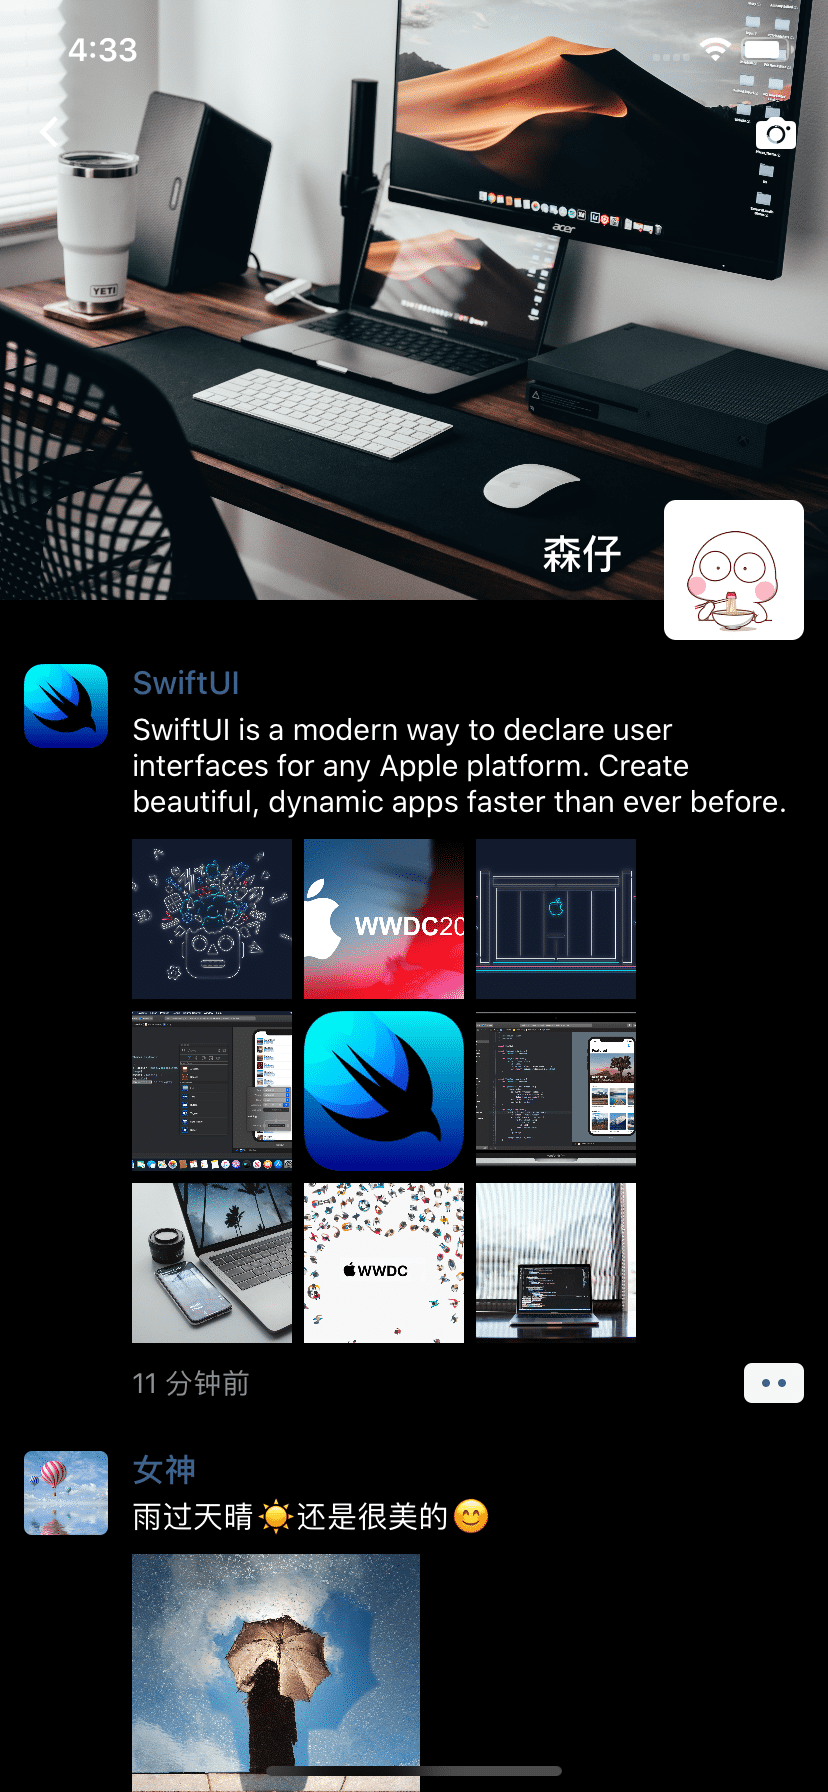
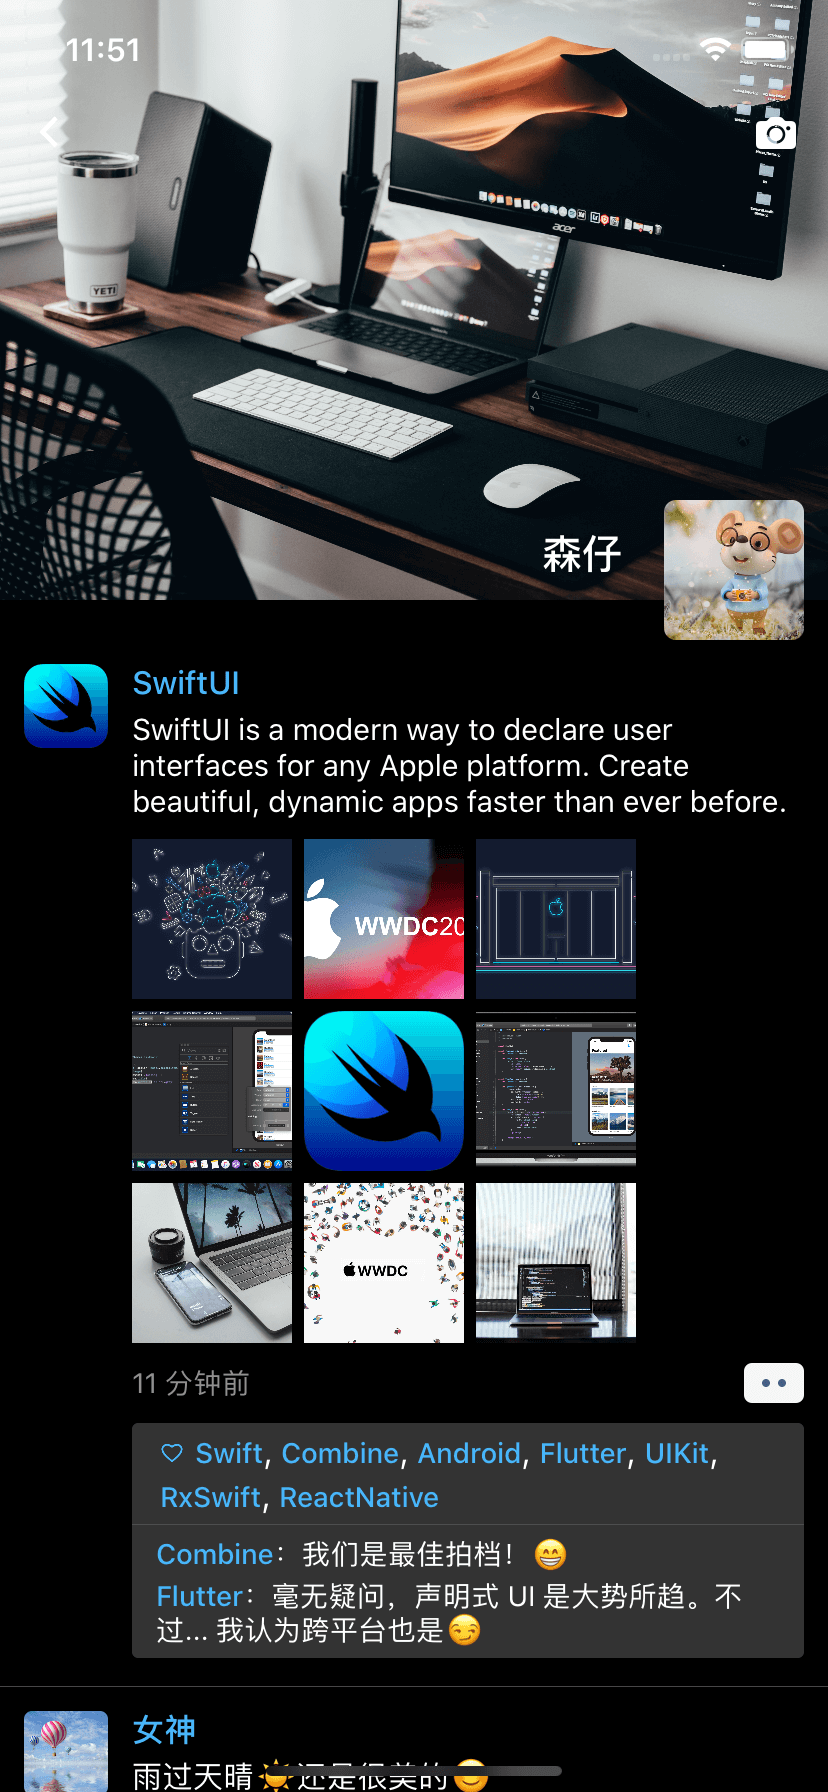
feat(moment): 增加评论列表

diff --git a/SwiftUI-WeChat/Module/Moment/MomentCell.swift b/SwiftUI-WeChat/Module/Moment/MomentCell.swift
@@ -44,25 +44,26 @@ struct MomentCell: View {
                 }
                 
                 if moment.likes != nil || moment.comments != nil {
-                    VStack(spacing: 0) {
+                    VStack(alignment: .leading, spacing: 0) {
                         if moment.likes != nil {
                             Likes(likes: moment.likes!)
                         }
                         
                         if moment.likes != nil && moment.comments != nil {
-                            Divider()
+                            Separator(color: Color("moment_comment_separator"))
                         }
                         
-//                        if moment.comments != nil {
-//                            Comments(comments: moment.comments!)
-//                        }
+                        if moment.comments != nil {
+                            Comments(comments: moment.comments!)
+                        }
                     }
-                    .frame(maxWidth: .infinity, alignment: .leading)
+                    .frame(maxWidth: .infinity)
                     .background(Color("moment_comment_background"))
+                    .cornerRadius(3)
                 }
             }
         }
-        .padding(12)
+        .padding(.init(top: 12, leading: 12, bottom: 14, trailing: 12))
     }
 }
 
@@ -193,7 +194,21 @@ private struct Time: View {
 private struct Likes: View {
     let likes: [String]
     
-    var likesText: some View {
+    var body: some View {
+        ZStack(alignment: .topLeading) {
+            makeLikesText()
+                .fixedSize(horizontal: false, vertical: true)
+
+            // 固定位置，即便文字有多行，心形位置也不会变
+            Image("moment_like")
+                .resizable()
+                .frame(width: 12, height: 12)
+                .offset(y: 5)
+        }
+        .padding(.init(top: 4, leading: 14, bottom: 4, trailing: 14))
+    }
+    
+    func makeLikesText() -> Text {
         var text = Text("    ") // 空格是为了给心形留位置
         
         for (i, like) in likes.enumerated() {
@@ -206,27 +221,26 @@ private struct Likes: View {
         
         return text
     }
-    
-    var body: some View {
-        ZStack(alignment: .topLeading) {
-            likesText
-
-            // 固定位置，即便文字有多行，心形位置也不会变
-            Image("moment_like")
-                .resizable()
-                .frame(width: 12, height: 12)
-                .offset(y: 5)
-        }
-        .padding(.init(top: 4, leading: 14, bottom: 4, trailing: 14))
-    }
 }
 
 private struct Comments: View {
     let comments: [Comment]
     
     var body: some View {
-        ForEach(comments) { comment in
-            Text("\(comment.name)：\(comment.content)")
+        VStack(alignment: .leading, spacing: 4) {
+            ForEach(comments) { comment in
+                self.makeCommentText(comment: comment)
+                    .fixedSize(horizontal: false, vertical: true)
+            }
         }
+        .padding(.init(top: 6, leading: 12, bottom: 6, trailing: 12))
+    }
+    
+    func makeCommentText(comment: Comment) -> Text {
+        Text(comment.name)
+            .font(.system(size: 14, weight: .medium))
+            .foregroundColor(Color("link")) +
+        Text("：\(comment.content)")
+            .font(.system(size: 14))
     }
 }

diff --git a/SwiftUI-WeChat/Module/Discover/DiscoverView.swift b/SwiftUI-WeChat/Module/Discover/DiscoverView.swift
@@ -20,13 +20,13 @@ struct DiscoverView : View {
                 }
                 Group {
                     Cell(icon: "discover_qrcode", title: "扫一扫")
-                    Divider().padding(.leading, 52)
+                    Separator().padding(.leading, 52)
                     Cell(icon: "discover_shake", title: "摇一摇")
                     Line()
                 }
                 Group {
                     Cell(icon: "discover_see", title: "看一看")
-                    Divider().padding(.leading, 52)
+                    Separator().padding(.leading, 52)
                     Cell(icon: "discover_search", title: "搜一搜")
                     Line()
                 }
@@ -36,7 +36,7 @@ struct DiscoverView : View {
                 }
                 Group {
                     Cell(icon: "discover_shop", title: "购物")
-                    Divider().padding(.leading, 52)
+                    Separator().padding(.leading, 52)
                     Cell(icon: "discover_game", title: "游戏")
                     Line()
                 }

diff --git a/SwiftUI-WeChat/Module/Me/MeView.swift b/SwiftUI-WeChat/Module/Me/MeView.swift
@@ -24,11 +24,11 @@ struct MeView : View {
                 }
                 Group {
                     Cell(icon: "me_favorite", title: "收藏")
-                    Divider().padding(.leading, 52)
+                    Separator().padding(.leading, 52)
                     Cell(icon: "me_photo_album", title: "相册")
-                    Divider().padding(.leading, 52)
+                    Separator().padding(.leading, 52)
                     Cell(icon: "me_bank_card", title: "卡包")
-                    Divider().padding(.leading, 52)
+                    Separator().padding(.leading, 52)
                     Cell(icon: "me_emoji", title: "表情")
                     Line()
                 }

diff --git a/SwiftUI-WeChat/Component/Separator.swift b/SwiftUI-WeChat/Component/Separator.swift
@@ -1,0 +1,29 @@
+//
+//  Separator.swift
+//  SwiftUI-WeChat
+//
+//  Created by Gesen on 2020/2/4.
+//  Copyright © 2020 Gesen. All rights reserved.
+//
+
+import SwiftUI
+
+struct Separator: View {
+    let color: Color
+    
+    var body: some View {
+        Divider()
+            .overlay(color)
+            .padding(.zero)
+    }
+    
+    init(color: Color = Color("separator")) {
+        self.color = color
+    }
+}
+
+struct Separator_Previews: PreviewProvider {
+    static var previews: some View {
+        Separator()
+    }
+}

diff --git a/SwiftUI-WeChat/Module/Moment/MomentView.swift b/SwiftUI-WeChat/Module/Moment/MomentView.swift
@@ -18,7 +18,10 @@ struct MomentView: View {
                     Group {
                         Header()
                         ForEach(self.moments) { moment in
-                            MomentCell(moment: moment)
+                            VStack(spacing: 0) {
+                                MomentCell(moment: moment)
+                                Separator()
+                            }
                         }
                     }
                     .listRowInsets(.zero)

diff --git a/SwiftUI-WeChat/Module/Contact/ContactView.swift b/SwiftUI-WeChat/Module/Contact/ContactView.swift
@@ -89,8 +89,7 @@ private struct Cell: View {
             .padding(EdgeInsets(top: 10, leading: 18, bottom: 10, trailing: 18))
             
             if !isLast { // 最后一行不增加分割线
-                Divider()
-                    .padding(EdgeInsets(top: 0, leading: 76, bottom: 0, trailing: 0))
+                Separator().padding(.leading, 76)
             }
         }
         .navigationLink(destination: ProfileView())

diff --git a/SwiftUI-WeChat/Module/Home/HomeView.swift b/SwiftUI-WeChat/Module/Home/HomeView.swift
@@ -71,8 +71,7 @@ private struct Cell: View {
             }
             .padding(EdgeInsets(top: 12, leading: 16, bottom: 12, trailing: 16))
             
-            Divider()
-                .padding(EdgeInsets(top: 0, leading: 76, bottom: 0, trailing: 0))
+            Separator().padding(.leading, 76)
         }
         .navigationLink(destination: ChatView())
     }

diff --git a/README.md b/README.md
@@ -43,8 +43,8 @@ Light Mode|Dark Mode
 ![HomeView](https://github.com/wxxsw/SwiftUI-WeChat/blob/master/Images/screenshot_home_light.png?1212)|![HomeView](https://github.com/wxxsw/SwiftUI-WeChat/blob/master/Images/screenshot_home_dark.png?1212)
 ![ContactView](https://github.com/wxxsw/SwiftUI-WeChat/blob/master/Images/screenshot_contact_light.png?1212)|![ContactView](https://github.com/wxxsw/SwiftUI-WeChat/blob/master/Images/screenshot_contact_dark.png?1212)
 ![DiscoverView](https://github.com/wxxsw/SwiftUI-WeChat/blob/master/Images/screenshot_discover_light.png?1212)|![DiscoverView](https://github.com/wxxsw/SwiftUI-WeChat/blob/master/Images/screenshot_discover_dark.png?1212)
-![MomentView](https://github.com/wxxsw/SwiftUI-WeChat/blob/master/Images/screenshot_moment_light.png?0105)|![MomentView](https://github.com/wxxsw/SwiftUI-WeChat/blob/master/Images/screenshot_moment_dark.png?0105)
-![MeView](https://github.com/wxxsw/SwiftUI-WeChat/blob/master/Images/screenshot_me_light.png?1212)|![MeView](https://github.com/wxxsw/SwiftUI-WeChat/blob/master/Images/screenshot_me_dark.png?1212)
+![MomentView](https://github.com/wxxsw/SwiftUI-WeChat/blob/master/Images/screenshot_moment_light.png?0204)|![MomentView](https://github.com/wxxsw/SwiftUI-WeChat/blob/master/Images/screenshot_moment_dark.png?0204)
+![MeView](https://github.com/wxxsw/SwiftUI-WeChat/blob/master/Images/screenshot_me_light.png?0204)|![MeView](https://github.com/wxxsw/SwiftUI-WeChat/blob/master/Images/screenshot_me_dark.png?0204)
 
 ## Progress
 
@@ -52,11 +52,11 @@ Light Mode|Dark Mode
 ---|---|---
 标签栏|Module/Root/RootTabView|✅
 首页|Module/Home/HomeView|✅
+聊天|Module/Chat/ChatView|待开发
 联系人|Module/Contact/ContactView|✅
 发现|Module/Discover/DiscoverView|✅
 朋友圈|Module/Moment/MomentView|🔨
 我的|Module/Me/MeView|✅
-聊天|Module/Chat/ChatView|待开发
 搜索|Module/Search/SearchView|待开发
 其它|...|待开发
 
